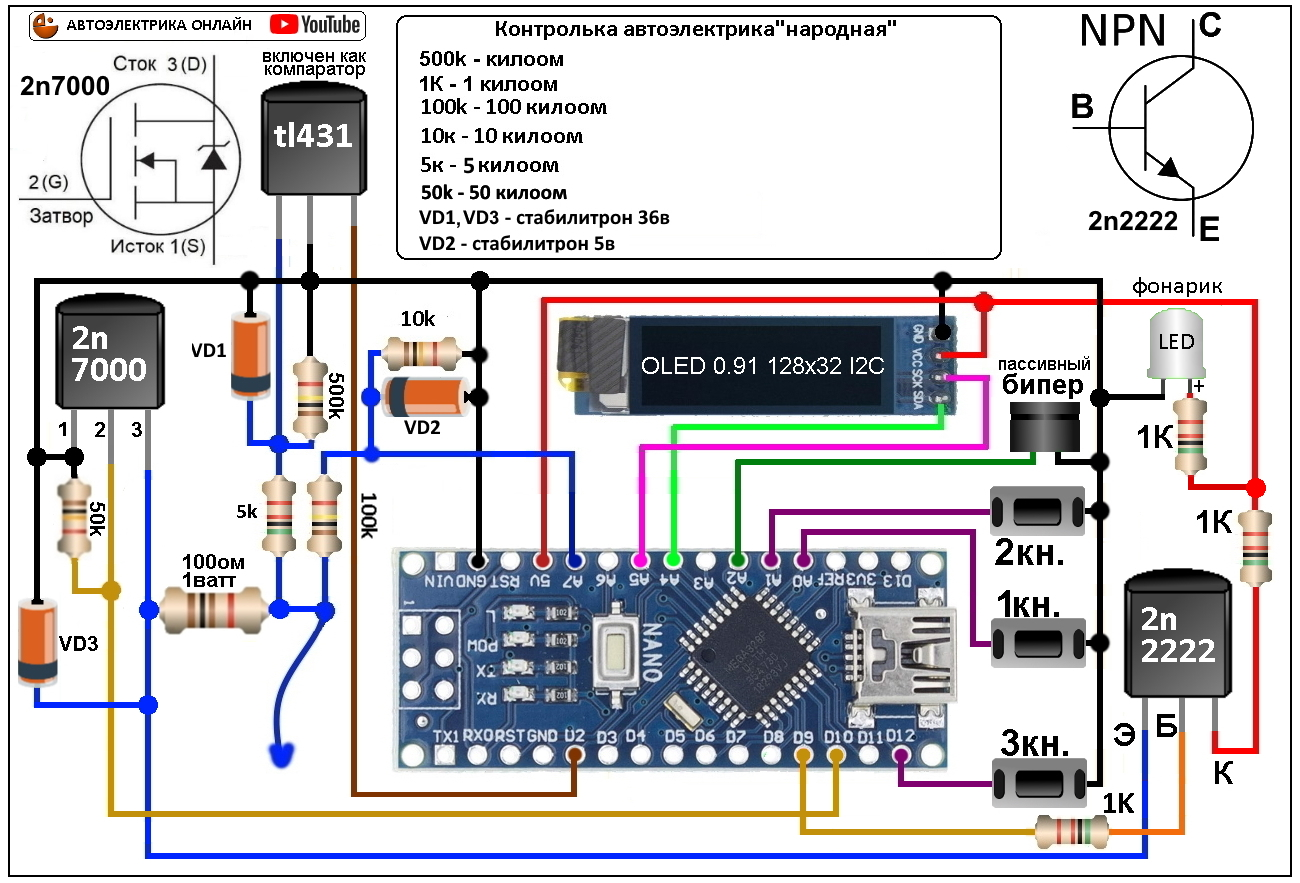
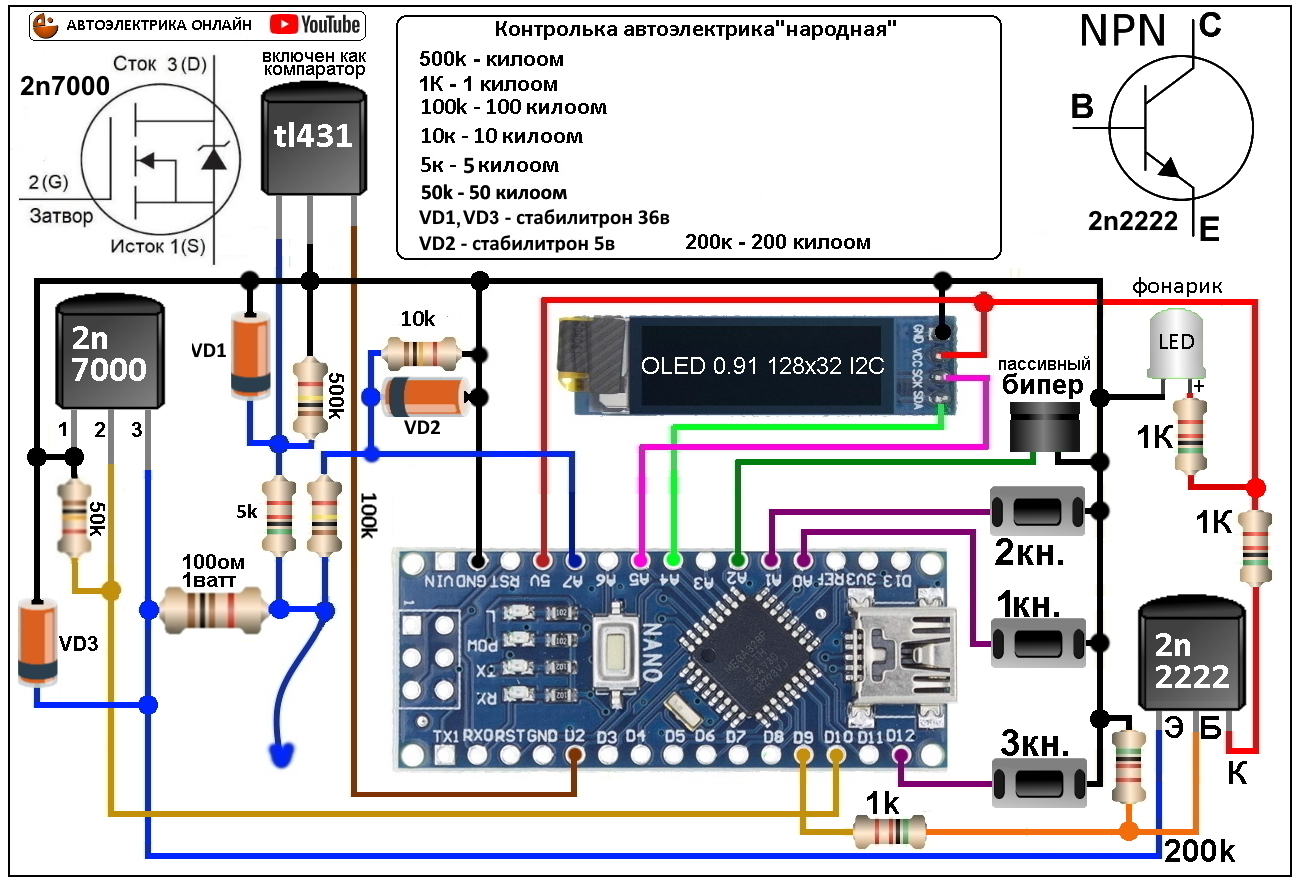
first commit25

Changed region(s): [[0.6462, 0.6421, 0.9846, 0.9785], [0.5846, 0.2446, 0.6462, 0.3058], [0.5231, 0.2446, 0.5538, 0.2752]]

diff --git a/shema.html b/shema.html
@@ -65,6 +65,15 @@
               </div>
 
 
+            <div class="card p-1 mt-4">
+              <h5 class="card-header text-center text-white" style = "background-color : #18464A">Компоненты</h5>
+              <div class="card-body p-1">
+                <h5 class="card-title">Компоненты и аналоги</h5>
+                <img  src="image/komponent.jpg" class="img-fluid w-100">
+                <p class="card-text">На рисунке компоненты для сборки контрольки, они доступные и недорогие, если чтото не найдете то используйте аналоги, резистор на 10 килоом и 100 килоом ставте обязательно на именно такое сопротивление иначе вольтметр сложно будет корректировать, остальные резисторы плюс минус 15% без проблем, стоабилитроны любые на указанные вольты.
+                </p>
+              </div>
+            </div>
 
             <div class="card p-1 mt-4">
               <h5 class="card-header text-center text-white" style = "background-color : #18464A">Схема контрольки</h5>

diff --git a/zagruzka.html b/zagruzka.html
@@ -72,7 +72,7 @@
                   <h5 class="card-title">Скетчи для контрольки, библиотеки и пр.</h5>
 
                   <p>
-                    Скетч контрольки 9.9. в файле для скачивания <a href="../files/kontrolka9_9.zip" download>   скачать   </a>
+                    Скетч контрольки 1.10. в файле для скачивания <a href="../files/kontrolka10.zip" download>   скачать   </a>
                     </p>
                     <br/>
                     Библиотека для дисплея, скачиваете, распаковываете, закидываете в C:\Program Files (x86)\Arduino\libraries
